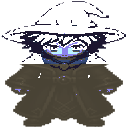
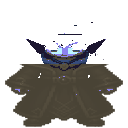
Strip mage hat from full-pose undertunics (dark cone was misread as hair).

diff --git a/tool/build_owned_gear_layers.py b/tool/build_owned_gear_layers.py
@@ -387,12 +387,15 @@ def is_gold_pixel(rgb: tuple[int, int, int]) -> bool:
 def is_hat_or_hood(family: str, rgb: tuple[int, int, int]) -> bool:
     r, g, b = rgb
     if family == "mage":
-        # Warm face is not a hat. Indigo/blue folds + gold/beige brim are.
+        # Warm face is not a hat. Indigo/blue folds + gold/beige brim + near-black
+        # cone are. Dark hat was matching is_hair_color and surviving LOOK.
         if is_gold_pixel(rgb) or is_hat_lining(rgb):
             return True
         if r > 150 and g > 90 and b > 50 and r > b:
             return False
-        return b > 40 and b >= r - 12
+        if b >= r - 8 and (b > 28 or lum(rgb) < 0.14):
+            return True
+        return False
     if family == "healer":
         # Circlet gold + pale/black hood. Blonde hair is warmer (bigger r-b).
         if is_gold_pixel(rgb):
@@ -666,6 +669,7 @@ def paint_undertunic(
     if family == "mage":
         op = out.load()
         mp = tint_mask.load()
+        # Everything above the eyes that isn't skin/hair is hat brim/cone.
         for y in range(0, int(fy)):
             for x in range(128):
                 r, g, b, a = op[x, y]
@@ -674,13 +678,8 @@ def paint_undertunic(
                 rgb = (r, g, b)
                 if is_skin(rgb, face) or is_hair_color("mage", rgb):
                     continue
-                if (
-                    is_gold_pixel(rgb)
-                    or is_hat_lining(rgb)
-                    or is_hat_or_hood("mage", rgb)
-                ):
-                    op[x, y] = (0, 0, 0, 0)
-                    mp[x, y] = (0, 0, 0, 0)
+                op[x, y] = (0, 0, 0, 0)
+                mp[x, y] = (0, 0, 0, 0)
     if family == "healer":
         op = out.load()
         mp = tint_mask.load()
